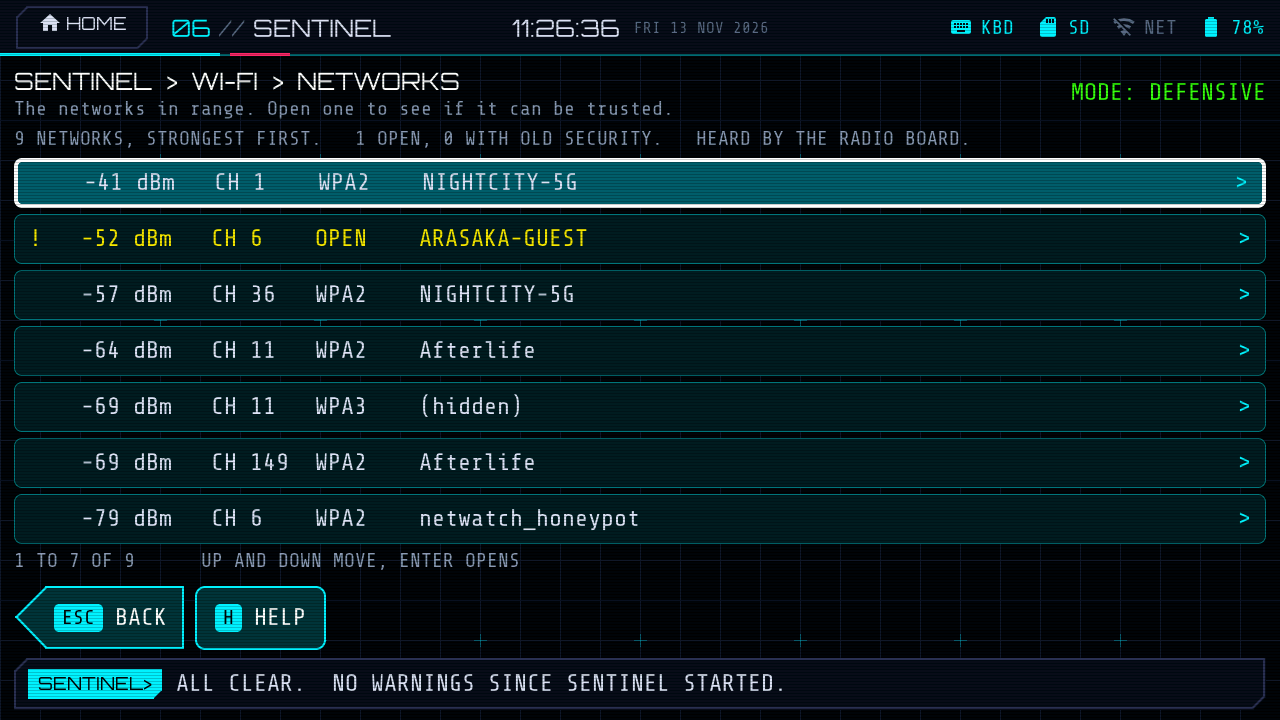
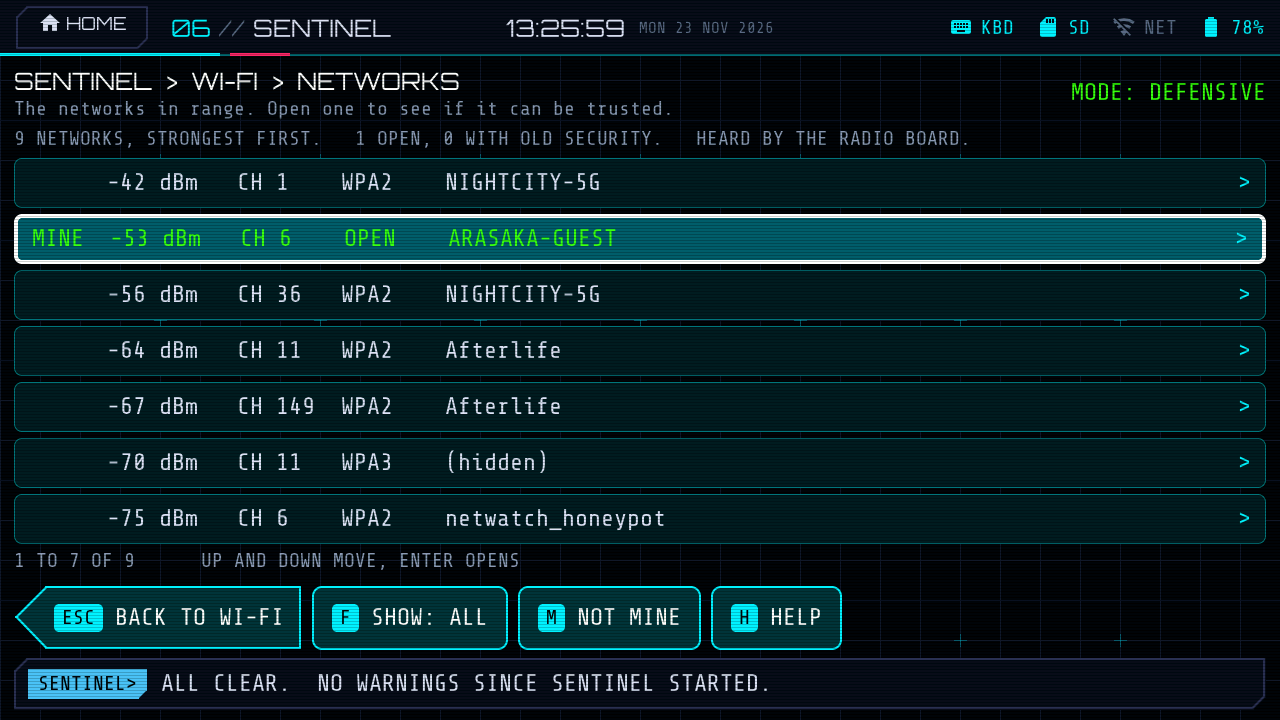
Ship phase documents, Alt+H for SENTINEL and NET TOOLS, screenshots

diff --git a/components/deck_core/deck_shell.c b/components/deck_core/deck_shell.c
@@ -10,6 +10,7 @@
 #include "deck_saver.h"
 #include "deck_statusbar.h"
 #include "deck_theme.h"
+#include "deck_wireless.h"
 #include "deck_widgets.h"
 
 #define TRANSITION_MS 260
@@ -196,7 +197,38 @@ void deck_shell_apply_kbd_light(void)
 
 void deck_shell_shortcuts(void)
 {
-    static const char *const cols[] = {
+    /* The second column ends with whichever wireless app this boot has (deck_wireless.h). */
+#define COL2                                                                                                                                 \
+    "NOTES\n"                                                                                                                                \
+    "  ENTER open  BACKSPACE up a folder  S sync (panel)\n"                                                                                  \
+    "  CTRL+S save  CTRL+P preview  CTRL+T split\n"                                                                                          \
+    "  ESC save and close\n"                                                                                                                 \
+    "\n"                                                                                                                                     \
+    "CALC\n"                                                                                                                                 \
+    "  ENTER evaluate  UP/DOWN recall\n"                                                                                                     \
+    "  CTRL+D deg/rad  CTRL+K keypad  CTRL+L clear tape\n"                                                                                   \
+    "\n"                                                                                                                                     \
+    "WEATHER\n"                                                                                                                              \
+    "  R refresh  L location  U units\n"                                                                                                     \
+    "\n"                                                                                                                                     \
+    "PLAYER\n"                                                                                                                               \
+    "  ENTER play  SPACE pause  LEFT/RIGHT seek\n"                                                                                           \
+    "  [ ] prev/next  - = volume  S shuffle  R repeat\n"                                                                                     \
+    "\n"                                                                                                                                     \
+    "FILES\n"                                                                                                                                \
+    "  ENTER open  BACKSPACE up  DEL or D delete\n"                                                                                          \
+    "  P preview / portal  SPACE engage / disengage\n"                                                                                       \
+    "\n"
+    static const char col2_sentinel[] = COL2 "SENTINEL\n"
+                                             "  1..8 open a tile  ARROWS choose  ENTER opens\n"
+                                             "  ESC or DEL back one level  L open the log\n"
+                                             "  every other key is on its button";
+    static const char col2_net[]      = COL2 "NET TOOLS\n"
+                                             "  1..7 open a tile  ARROWS choose  ENTER opens\n"
+                                             "  ESC or DEL back one level\n"
+                                             "  every other key is on its button";
+#undef COL2
+    const char *const cols[] = {
         "ANYWHERE\n"
         "  ALT+1..6    open a home tile   ALT+A  apps\n"
         "  ALT+T N S C F  W M R X   jump to an app\n"
@@ -215,29 +247,7 @@ void deck_shell_shortcuts(void)
         "  SSH: every key goes to the server, ESC too\n"
         "  OLLAMA: CTRL+C stops a reply, /help commands\n"
         "  ALT+ESC leaves  SHIFT+UP/DOWN scrolls back",
-
-        "NOTES\n"
-        "  ENTER open  BACKSPACE up a folder  S sync (panel)\n"
-        "  CTRL+S save  CTRL+P preview  CTRL+T split\n"
-        "  ESC save and close\n"
-        "\n"
-        "CALC\n"
-        "  ENTER evaluate  UP/DOWN recall\n"
-        "  CTRL+D deg/rad  CTRL+K keypad  CTRL+L clear tape\n"
-        "\n"
-        "WEATHER\n"
-        "  R refresh  L location  U units\n"
-        "\n"
-        "PLAYER\n"
-        "  ENTER play  SPACE pause  LEFT/RIGHT seek\n"
-        "  [ ] prev/next  - = volume  S shuffle  R repeat\n"
-        "\n"
-        "FILES\n"
-        "  ENTER open  BACKSPACE up  DEL or D delete\n"
-        "  P preview / portal  SPACE engage / disengage\n"
-        "\n"
-        "NET TOOLS\n"
-        "  1..4 tab  R rescan / sweep / run  ENTER ping the host",
+        deck_wireless_sentinel() ? col2_sentinel : col2_net,
     };
     deck_modal_info("SHORTCUTS", cols, 2);
 }

diff --git a/docs/superpowers/specs/2026-11-23-sentinel-ship-phase-design.md b/docs/superpowers/specs/2026-11-23-sentinel-ship-phase-design.md
@@ -296,6 +296,62 @@ board while the screen sleeps.
 6. `check.sh --firmware`, screenshots, ROADMAP and README lines, the
    release notes, `release.sh --local`, the images.
 
-## As built
+## As built (2026-11-23)
 
-(Filled in when the phase lands.)
+Plan: `docs/superpowers/plans/2026-11-23-sentinel-ship-phase.md`, twelve
+tasks, executed in order on this branch. Host tests went from 21 to 25.
+
+- **The choice.** `deck_wireless_sentinel()` in `deck_core` reads `wireless`
+  with `app_rf` as its default. Both mains register one of `app_net()` and
+  `app_sentinel()` and build the matching grid; CALC's `optional` flag is set
+  from the choice before registration. The sim's `--list` prints the three
+  lines and three ctest cases pin both modes and a switched-off NET TOOLS.
+  Not as the spec's table said: the APPS group in SENTINEL mode is CALC,
+  WEATHER, PLAYER (registration order, as built since the restructure), so
+  Brian's tiles do not move.
+- **NET TOOLS** is `apps/app_sentinel/app_net.c`: the frame started with
+  `log == NULL`, which leaves out the mode chip and the alert line and makes
+  the home button LEAVE NET TOOLS. Its home page `sn_net_home` has seven
+  tiles, NETWORKS first (exported from `sn_wifi.c`). `hal_restart()` is new
+  in the HAL (the sim exits).
+- **The row** sits above the optional apps in APPLICATIONS, 96 px, a
+  cycling button and a RESTART button that appears only while the saved
+  choice differs from the one this boot used; RESTART asks with CANCEL
+  focused.
+- **Notices.** The rules are `deck_notice_rules.c` (no LVGL, host-tested in
+  `sim/notice_test.c`, eleven cases); `deck_notice.c` draws what they say.
+  `deck_shell_wake()` is new. The home tile's second line and the alert
+  line's tag are 20 px. Switching the board off no longer clears the count.
+- **The frame.** `g_pal.live` (#4FC3F7) is the running colour everywhere in
+  SENTINEL and nothing else in SENTINEL uses the accent for data. BACK says
+  BACK TO <parent>. `sn_screen_t.hold(go)` lets a leaf hold the alert line's
+  exit; `SN_KEEP_TOOL` now means the leaf is built with or without the board
+  and never swapped for the blocked page. `sn_say` yields to a live ALERT.
+  `sn_button_label`, `sn_button_danger` and `sn_confirm_or` are new.
+- **WARDRIVE** carries `SN_KEEP_TOOL` and `hold`; its START / END is a 320
+  by 100 button in the body, Enter in `key()`. The sim has `SIM_RF_DROP=<s>`
+  (the node silent for 60 s). Mine devices are skipped before the drive log
+  in both the Tab5 sink and the sim's.
+- **WI-FI.** `cap_file[link]` and `cap_failing[link]` in the store stats;
+  `wifi_mine` is a blob of up to eight BSSIDs kept in `sn_wifi.c`; the list
+  draws through a `shown[]` map so the filter and the selection agree.
+- **SPECTRUM.** Retuning with a list asks ("RETUNE?" with the counts);
+  opening TRANSMITTERS during a survey asks before parking the radio, CANCEL
+  goes back; the Enter label is RETUNE TO 433.92 (the dialog says what is
+  lost, and the longer label ran off the screen). BACK out of TRANSMITTERS
+  does not ask.
+- **The review of the SD and link-loss paths** found one critical and three
+  important problems, all fixed (the commit "SD and link-loss paths" has the
+  list): a drive on a card that refused the headers reported success; a
+  capture named a file that did not exist and retried the card on every
+  packet; WARDRIVE gave the wrong reason with the board off; a node restart
+  left the mirrored arm lease and a queued deauth in place (fixed in
+  `sentinel_core`, submodule commit 5b3a188, with a host test). Two minors
+  are recorded and not changed: a drive's lost count says 1 for a failed
+  sync, and the stats struct is copied without a lock.
+- **Measurements.** Firmware 2,466,608 bytes, 61 % of the 6 MB slot free, no
+  warnings. The jam scene shows the red ALERT banner over NOTES at 30 s and
+  the saver's warning line at 125 s. The drive scene with `SIM_RF_DROP=80`
+  keeps the drive through the drop (241 rows at 90 s, 274 at 150 s).
+- **Not done here.** The device checklist waits on the published prerelease
+  (the ROADMAP has it). The phase 2 decisions stand unreviewed.

diff --git a/ROADMAP.md b/ROADMAP.md
@@ -184,6 +184,19 @@ Home screen first, then the two modules, one at a time.
 - [x] Review cleanup: APPS uses 4x3 from seven apps; a refused SETTINGS launch no longer leaves APPLICATIONS for the next Alt+S; the music indicator won't open a switched-off PLAYER; PLAYER start-up checks its lock, buffer and task (and retries on the next switch-on); duplicate app ids are rejected
 - [ ] Checkpoint on hardware: toggle each optional app; WEATHER stops fetching, PLAYER stops the music and its indicator; toggles survive a reboot; an update from v1.4 keeps every app on
 
+## v1.5.0-beta.2: ship (2026-11-23)
+
+The SENTINEL branch made deliverable over the air before any more features.
+Spec: `docs/superpowers/specs/2026-11-23-sentinel-ship-phase-design.md`.
+
+- [x] SETTINGS > APPLICATIONS > WIRELESS TOOLS: NET TOOLS (the default, v1.5.0-beta.1's six tiles with NET TOOLS under APPS, nothing on the rear bus) or SENTINEL (the suite, CALC under APPS), applied at the next restart; a deck that had RF WATCH on comes up with SENTINEL
+- [x] NET TOOLS is the SENTINEL frame with NETWORKS (the deck's own scan), PING, DNS, TRACEROUTE, PORT CHECK, LAN DEVICES and SPEED TEST, and no mode chip or alert line; the sim lists what each mode registers (`deck_sim --headless --list`, two ctest cases)
+- [x] Notices have an ALERT level: a red banner that replaces a warning's, ignores the quiet period, stays 20 s and wakes a dark screen; the status bar count turns red; the screensaver shows the unseen count and the latest warning; the rules are a pure file with a host test
+- [x] The usability review finished inside SENTINEL: BACK names where it goes; a drive outlives a link drop and asks before any exit (the alert line too); one big START / END button; a capture names its file; NETWORKS filters to the flagged and marks yours as mine; retuning or leaving TRANSMITTERS asks before its lists are lost; the survey's stop is named; a deck line never covers a live alert; a blue "live" colour for anything running, so NOMAD and MILITECH accents cannot be taken for warn or ok
+- [x] Your own Bluetooth devices are left out of a wardrive
+- [ ] Checkpoint on the Tab5 after Brian publishes the prerelease: the OTA from v1.5.0-beta.1, NET TOOLS by default with the bus dead, the switch and restart both ways, SENTINEL with the board (HELLO, alert line, a capture's name, a drive through an unplug)
+- Left as it is, on purpose: the slashed zero (Orbitron has no alternate), a day picker in LOG, touch selection inside charts, SCAN's channel chart without the board
+
 ## Next: Startup sound
 
 - A short boot chime through the speaker (or headphones) while the POST runs, stored as a small embedded clip and played by the audio driver

diff --git a/README.md b/README.md
@@ -18,11 +18,15 @@ Seven modules: TERMINAL (SSH and Ollama chat), NOTES (markdown), CALC, WEATHER, 
 Wi-Fi with signed builds and tells you when a new one is out.
 
 **Next (v1.5): app toggles and a cleaner home.** The home screen is a live
-panel plus six fixed tiles: TERMINAL, NOTES, SETTINGS, APPS, FILES and SENTINEL.
+panel plus six fixed tiles: TERMINAL, NOTES, SETTINGS, CALC, FILES and APPS.
 Tiles carry only an icon, a name and their `Alt+letter`. The panel shows live
 sections from apps that have one (WEATHER today; tap a section to open the
-app). APPS holds the optional apps (CALC, WEATHER, PLAYER),
-each in a fixed slot. SETTINGS (formerly SYSTEM) has an **APPLICATIONS** tab
+app). APPS holds the optional apps (WEATHER, PLAYER, NET TOOLS), each in a
+fixed slot. SETTINGS > APPLICATIONS > WIRELESS TOOLS picks NET TOOLS (the
+default: the deck's own Wi-Fi as a toolkit) or SENTINEL (the radio board
+suite below, with those tools inside it); the choice takes effect at the
+next restart, and with SENTINEL the sixth tile is SENTINEL and CALC moves
+under APPS. SETTINGS (formerly SYSTEM) has an **APPLICATIONS** tab
 with a switch per optional app: a switched-off app is greyed in APPS, does no
 background work and ignores its shortcut; tapping its tile opens the switch.
 The first greyed tile carries a quiet "enable in settings" hint. The live panel
@@ -37,10 +41,12 @@ NEON (each home tile in its own color).
 | ![Home](docs/screenshots/home.png) | ![Apps](docs/screenshots/apps.png) | ![Applications](docs/screenshots/applications.png) |
 
 **v1.5: SENTINEL**, what is on the air and the network around you, as one
-module on the home screen. It took over from two earlier apps (RF WATCH,
-the tools of the RF Sentinel carrier board, and NET TOOLS, the deck's own
-Wi-Fi as a toolkit) and makes no distinction between them: screens are
-grouped by what they are for, not by which radio answers.
+module on the home screen when WIRELESS TOOLS says so. It took over from two
+earlier apps (RF WATCH, the tools of the RF Sentinel carrier board, and NET
+TOOLS, the deck's own Wi-Fi as a toolkit) and makes no distinction between
+them: screens are grouped by what they are for, not by which radio answers.
+Without the board, NET TOOLS is the same frame with the NETWORK screens and
+the Wi-Fi scan, and nothing on the rear bus is touched.
 
 The carrier board sits on the rear M5-Bus: a Stamp C5 with a 433 MHz radio
 (CC1101), a 2.4 GHz radio (nRF24L01+) and a GPS receiver. It does all the
